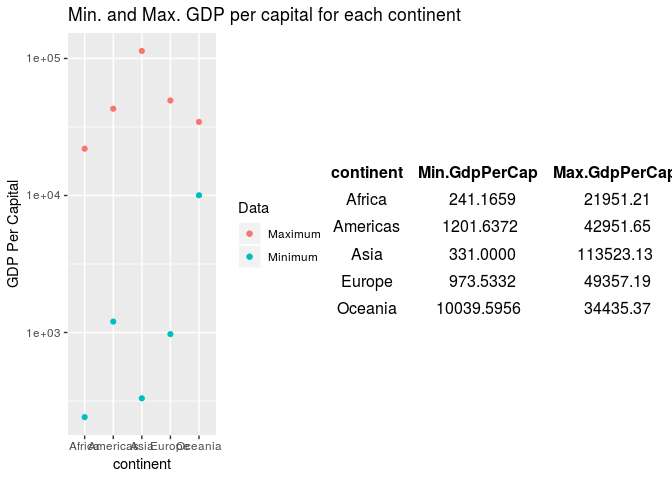
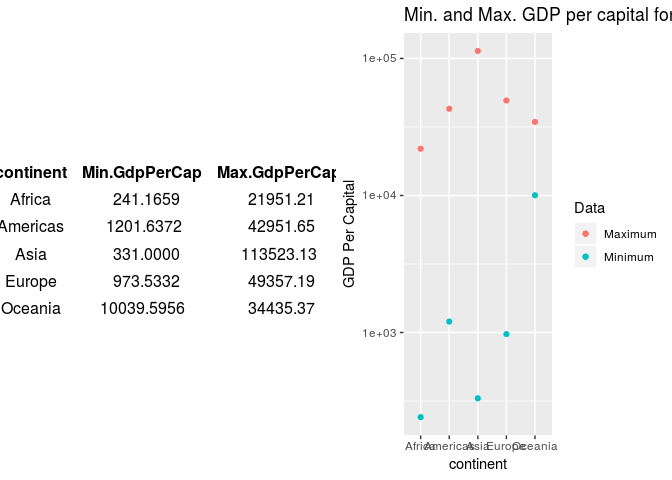
upload assignment

diff --git a/homework_03.md b/homework_03.md
@@ -14,7 +14,8 @@ September 27, 2018
         -   [How is life expectancy changing over time in different continent?](#how-is-life-expectancy-changing-over-time-in-different-continent)
         -   [How is average life expectancy changing over time in different continent?](#how-is-average-life-expectancy-changing-over-time-in-different-continent)
         -   [Report the absolute and/or relative abundance of countries with low life expectancy over time by continent.](#report-the-absolute-andor-relative-abundance-of-countries-with-low-life-expectancy-over-time-by-continent.)
-        -   [Find countreis with interesting stories](#find-countreis-with-interesting-stories)
+        -   [I want to do more!](#i-want-to-do-more)
+        -   [Placing a table and a figure side-by-side.](#placing-a-table-and-a-figure-side-by-side.)
 
 **Homework 03: USe dplyr/ggplot2 to manipulate and explore data**
 =================================================================
@@ -613,10 +614,12 @@ LwLifExp  %>%
 
 ![](homework_03_files/figure-markdown_github/unnamed-chunk-14-2.png)
 
-### Find countreis with interesting stories
+### I want to do more!
+
+### Placing a table and a figure side-by-side.
 
 ``` r
-suppressPackageStartupMessages(library(gridExtra))
+suppressPackageStartupMessages(library(gridExtra)) # loads the gridExtra library
 ```
 
 ``` r
@@ -649,8 +652,14 @@ MinMAxPlot <- MinMax %>%   # loads the MinMax data
               labs(y ="GDP Per Capital")     # labels y-axis
 
 
-Table2 <- tableGrob(MinMax, theme=ttheme_minimal(),rows=NULL)
-grid.arrange(MinMAxPlot, Table2,nrow=1)
+Table2 <- tableGrob(MinMax, theme=ttheme_minimal(),rows=NULL)  # Creates a gtable
+grid.arrange(Table2,MinMAxPlot, nrow=1)   # puts the table and the plot side-by-side
 ```
 
 ![](homework_03_files/figure-markdown_github/unnamed-chunk-16-1.png)
+
+``` r
+grid.arrange(Table2,MinMAxPlot, nrow=2)  # puts the table above the plot
+```
+
+![](homework_03_files/figure-markdown_github/unnamed-chunk-17-1.png)
